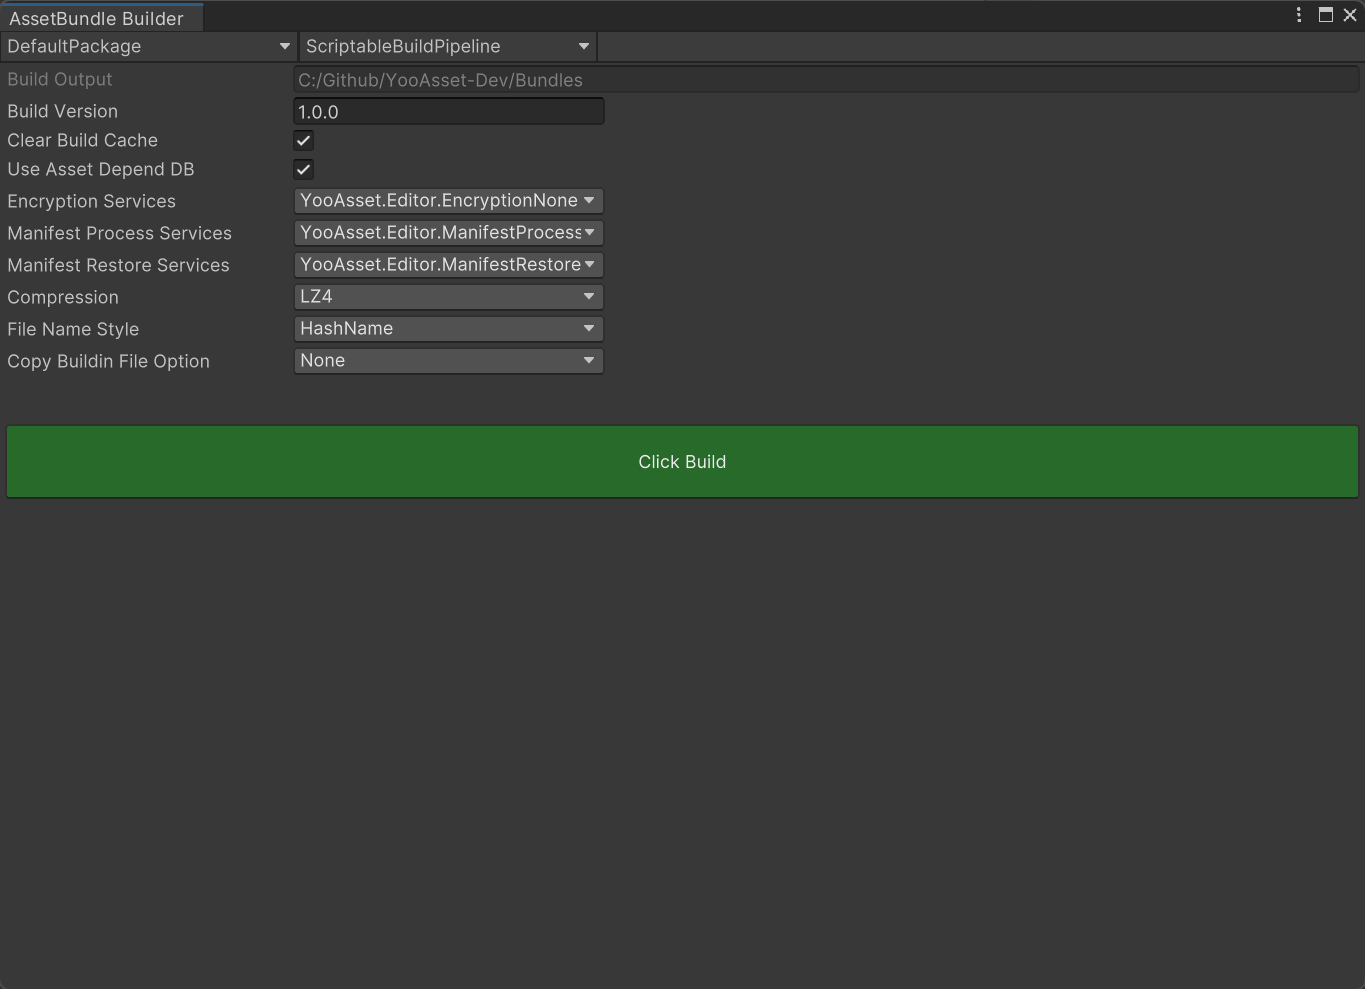
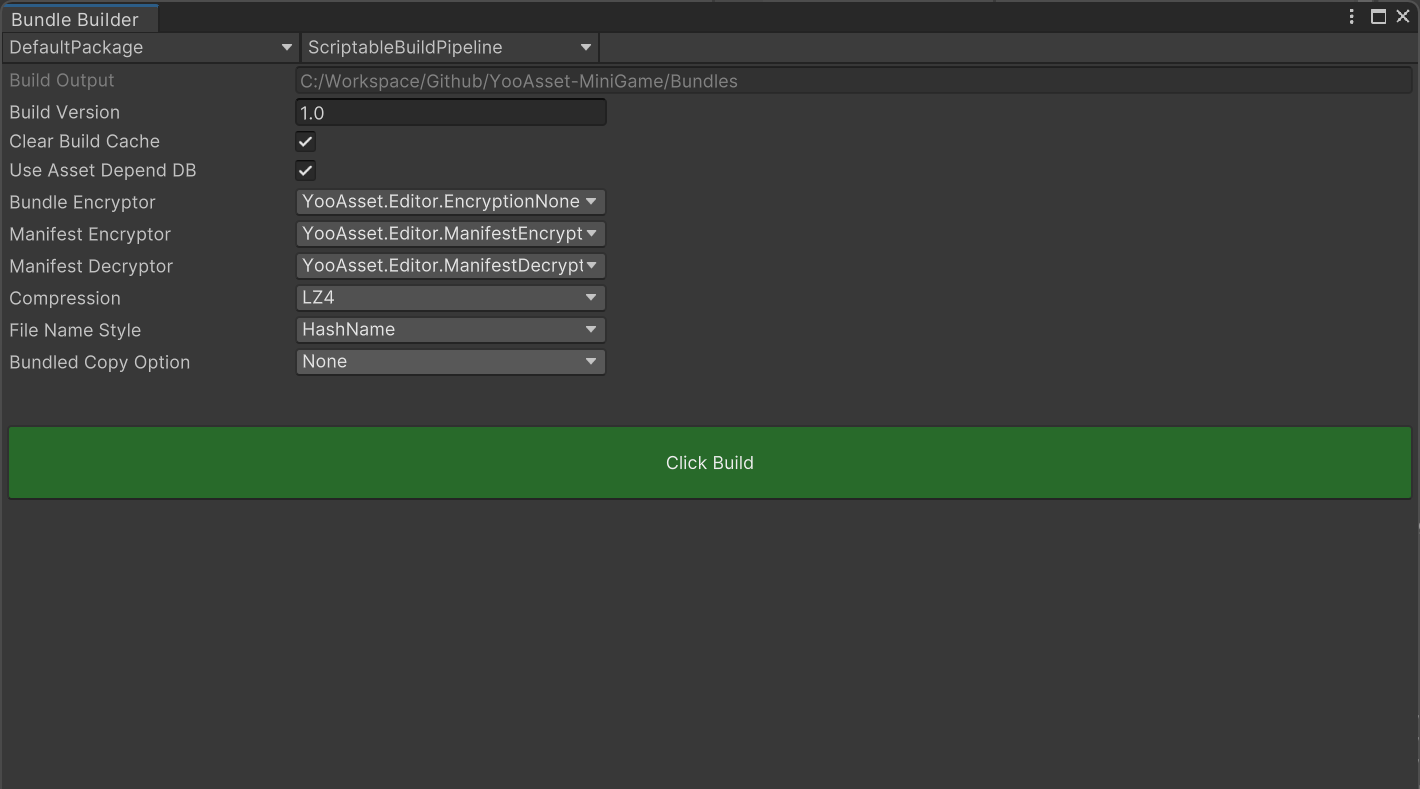
update docs

diff --git a/yoo-website/versioned_docs/version-3.0.x/002-guide-runtime/001-ResourceInit.md b/yoo-website/versioned_docs/version-3.0.x/002-guide-runtime/001-ResourceInit.md
@@ -54,9 +54,16 @@ private IEnumerator DestroyPackage()
 
 注意：该模式只在编辑器下起效
 
+`EditorSimulateBuildInvoker.Build()` 的第二个参数用于指定编辑器模拟模式下的资源包类型，必须传入虚拟资源包类型：
+
+- `EBundleType.VirtualAssetBundle`：模拟常规AssetBundle资源包。
+- `EBundleType.VirtualRawBundle`：模拟原生文件资源包。
+- `EBundleType.VirtualArchiveBundle`：模拟归档文件资源包。
+
 ````csharp
 private IEnumerator InitPackage()
 {  
+    var package = YooAssets.GetPackage("DefaultPackage");
     var buildResult = EditorSimulateBuildInvoker.Build("DefaultPackage", (int)EBundleType.VirtualAssetBundle);
     var packageRoot = buildResult.PackageRootDirectory;
     var fileSystemParams = FileSystemParameters.CreateDefaultEditorFileSystemParameters(packageRoot);
@@ -89,6 +96,7 @@ private IEnumerator InitPackage()
 ````csharp
 private IEnumerator InitPackage()
 {
+    var package = YooAssets.GetPackage("DefaultPackage");
     var fileSystemParams = FileSystemParameters.CreateDefaultBuiltinFileSystemParameters();
     
     var createParameters = new OfflinePlayModeOptions();
@@ -119,14 +127,15 @@ private IEnumerator InitPackage()
 ````csharp
 private IEnumerator InitPackage()
 {
+    var package = YooAssets.GetPackage("DefaultPackage");
     string defaultHostServer = "http://127.0.0.1/CDN/Android/v1.0";
     string fallbackHostServer = "http://127.0.0.1/CDN/Android/v1.0";
     IRemoteService remoteServices = new RemoteServices(defaultHostServer, fallbackHostServer);
     var cacheFileSystemParams = FileSystemParameters.CreateDefaultSandboxFileSystemParameters(remoteServices);
-    var buildinFileSystemParams = FileSystemParameters.CreateDefaultBuiltinFileSystemParameters();
+    var builtinFileSystemParams = FileSystemParameters.CreateDefaultBuiltinFileSystemParameters();
     
     var createParameters = new HostPlayModeOptions();
-    createParameters.BuiltinFileSystemParameters = buildinFileSystemParams;
+    createParameters.BuiltinFileSystemParameters = builtinFileSystemParams;
     createParameters.CacheFileSystemParameters = cacheFileSystemParams;
     
     var initOperation = package.InitializePackageAsync(createParameters);
@@ -181,6 +190,10 @@ private class RemoteServices : IRemoteService
 ```csharp
 private IEnumerator InitPackage()
 {
+    var package = YooAssets.GetPackage("DefaultPackage");
+    string defaultHostServer = "http://127.0.0.1/CDN/Android/v1.0";
+    string fallbackHostServer = "http://127.0.0.1/CDN/Android/v1.0";
+
     //说明：RemoteServices类定义请参考联机运行模式！
     IRemoteService remoteServices = new RemoteServices(defaultHostServer, fallbackHostServer);
     var webServerFileSystemParams = FileSystemParameters.CreateDefaultWebServerFileSystemParameters();
@@ -223,13 +236,13 @@ private IEnumerator RequestPackageVersion()
 
     if (operation.Status == EOperationStatus.Succeeded)
     {
-        //更新成功
+        //请求成功
         string packageVersion = operation.PackageVersion;
         Debug.Log($"Request package Version : {packageVersion}");
     }
     else
     {
-        //更新失败
+        //请求失败
         Debug.LogError(operation.Error);
     }
 }
@@ -240,7 +253,7 @@ private IEnumerator RequestPackageVersion()
 在获取到资源版本号之后，就可以更新资源清单了。
 
 ````csharp
-private IEnumerator UpdatePackageManifest()
+private IEnumerator UpdatePackageManifest(string packageVersion)
 {
     var package = YooAssets.GetPackage("DefaultPackage");
     var operation = package.LoadPackageManifestAsync(new LoadPackageManifestOptions(packageVersion, 60));
@@ -267,6 +280,7 @@ private IEnumerator UpdatePackageManifest()
 ```csharp
 private IEnumerator InitPackage()
 {
+    var package = YooAssets.GetPackage("DefaultPackage");
     // 配置各个文件系统参数
     ......
     
@@ -290,14 +304,17 @@ private IEnumerator InitPackage()
 实现一个继承IBundleDecryptor相关接口的类，参考代码：[示例代码](https://github.com/tuyoogame/YooAsset/blob/yoo3/Assets/YooAsset/Samples~/Test%20Sample/Runtime/CryptoHelpers/TestFileEncryption.cs)
 
 ```csharp
-// 初始化资源包
-var decryptor = new TestFileStreamDecryption();
-var createParameters = new OfflinePlayModeOptions();
-createParameters.BuiltinFileSystemParameters = FileSystemParameters.CreateDefaultBuiltinFileSystemParameters();
-createParameters.BuiltinFileSystemParameters.AddParameter(EFileSystemParameter.AssetbundleDecryptor, decryptor);
+private IEnumerator InitPackage()
+{
+    var package = YooAssets.GetPackage("DefaultPackage");
+    var decryptor = new TestFileStreamDecryption();
+    var createParameters = new OfflinePlayModeOptions();
+    createParameters.BuiltinFileSystemParameters = FileSystemParameters.CreateDefaultBuiltinFileSystemParameters();
+    createParameters.BuiltinFileSystemParameters.AddParameter(EFileSystemParameter.AssetbundleDecryptor, decryptor);
 
-var initializeOp = package.InitializePackageAsync(createParameters);
-yield return initializeOp;
+    var initializeOp = package.InitializePackageAsync(createParameters);
+    yield return initializeOp;
+}
 ```
 
 ### 资源清单解密方法
@@ -305,14 +322,17 @@ yield return initializeOp;
 实现一个继承IManifestDecryptor接口的类，参考代码：[示例代码](https://github.com/tuyoogame/YooAsset/blob/yoo3/Assets/YooAsset/Samples~/Test%20Sample/Runtime/CryptoHelpers/TestManifestServices.cs)
 
 ```csharp
-// 初始化资源包
-var createParameters = new OfflinePlayModeOptions();
-var decryption = new TestManifestDecryptor();
-createParameters.BuiltinFileSystemParameters = FileSystemParameters.CreateDefaultBuiltinFileSystemParameters();
-createParameters.BuiltinFileSystemParameters.AddParameter(EFileSystemParameter.ManifestDecryptor, decryption);
+private IEnumerator InitPackage()
+{
+    var package = YooAssets.GetPackage("DefaultPackage");
+    var createParameters = new OfflinePlayModeOptions();
+    var decryption = new TestManifestDecryptor();
+    createParameters.BuiltinFileSystemParameters = FileSystemParameters.CreateDefaultBuiltinFileSystemParameters();
+    createParameters.BuiltinFileSystemParameters.AddParameter(EFileSystemParameter.ManifestDecryptor, decryption);
 
-var initializeOp = package.InitializePackageAsync(createParameters);
-yield return initializeOp;
+    var initializeOp = package.InitializePackageAsync(createParameters);
+    yield return initializeOp;
+}
 ```
 
 ### 注意事项
@@ -324,7 +344,7 @@ yield return initializeOp;
 3. 要想解决上面的问题，需要开发者扩展默认的内置文件系统类。
 
 ```csharp
-string packageRoot = Application.persistentDataPath + "/buildin"; //沙盒目录
+string packageRoot = Application.persistentDataPath + "/builtin"; //沙盒目录
 FileSystemParameters.CreateDefaultBuiltinFileSystemParameters(packageRoot);
 ```
 
@@ -335,7 +355,7 @@ FileSystemParameters.CreateDefaultBuiltinFileSystemParameters(packageRoot);
 
 ### 源代码解析
 
-Package.InitializePackageAsync()方法解析。
+ResourcePackage.InitializePackageAsync()方法解析。
 
 - 编辑器模拟模式
 

diff --git a/yoo-website/versioned_docs/version-3.0.x/002-guide-runtime/005-ResourceLoad.md b/yoo-website/versioned_docs/version-3.0.x/002-guide-runtime/005-ResourceLoad.md
@@ -144,7 +144,7 @@ IEnumerator Start()
     bool allowSceneActivation = true;
     SceneHandle handle = package.LoadSceneAsync(location, sceneMode, physicsMode, allowSceneActivation);
     yield return handle;
-    Debug.Log($"Scene name is {handle.Scene.name}");
+    Debug.Log($"Scene name is {handle.SceneName}");
 }
 ````
 
@@ -158,8 +158,8 @@ IEnumerator Start()
     string location = "Assets/GameRes/UIAtlas/login.spriteatlas";
     AssetHandle handle = package.LoadAssetAsync(location);
     yield return handle;
-    var spriteAtals = handle.AssetObject as SpriteAtlas;
-    var spriteObject = spriteAtals.GetSprite("spriteName");
+    var spriteAtlas = handle.AssetObject as SpriteAtlas;
+    var spriteObject = spriteAtlas.GetSprite("spriteName");
 }
 ```
 
@@ -172,12 +172,34 @@ IEnumerator Start()
 ````csharp
 IEnumerator Start()
 {
-    // 如需获取本地文件路径，使用 EnsureBundleFileAsync
+    // 注意：该Package必须是原生文件构建管线构建的资源包裹。
+    string location = "Assets/GameRes/wwise/init.bnk";
+    AssetHandle handle = package.LoadAssetAsync<RawFileObject>(location);
+    yield return handle;
+
+    RawFileObject rawFileObject = handle.GetAssetObject<RawFileObject>();
+    byte[] fileData = rawFileObject.GetBytes();
+    string fileText = rawFileObject.GetText();
+
+    handle.Release();
+}
+````
+
+### 获取资源包文件地址范例
+
+`EnsureBundleFileAsync` 用于确保资源包文件已经在本地文件系统中就绪，并返回该资源包文件的本地磁盘路径。
+
+该方法适用于必须把真实文件路径传递给第三方系统的场景，例如音频中间件加载外部音频文件、第三方解压库读取文件等。它不是用来读取文件内容的通用方法；如果只是读取原生文件的字节或文本内容，推荐使用 `RawFileObject`。
+
+````csharp
+IEnumerator Start()
+{
+    string location = "Assets/GameRes/wwise/init.bnk";
     var ensureOp = package.EnsureBundleFileAsync(new EnsureBundleFileOptions(location));
     yield return ensureOp;
+
     string filePath = ensureOp.Detail.BundleFilePath;
-    byte[] fileData = System.IO.File.ReadAllBytes(filePath);
-    string fileText = System.IO.File.ReadAllText(filePath);
+    AudioEngine.LoadBank(filePath);
 }
 ````
 
@@ -202,6 +224,8 @@ IEnumerator Start()
 ### 热更脚本加载范例
 
 如果使用的是Lua或者ILRuntime，HybridCLR热更方式，可以将Lua或者Hotfix.dll的文件格式修改为.bytes
+
+注意：这里的.bytes文件需要作为普通资源被收集器收集，并通过常规AssetBundle构建管线构建到资源包内。加载时使用 `LoadAssetAsync<TextAsset>()`，而不是原生文件加载方式。
 
 ```csharp
 IEnumerator Start()
@@ -245,7 +269,9 @@ void GetAllAssetInfos()
 ### 检测资源是否需要更新下载
 
 ````csharp
+void CheckDownloadSize()
 {
+    string location = "Assets/GameRes/Panel/login.prefab";
     bool isNeedDownload = package.GetDownloadSize(location) > 0;
 }
 ````

diff --git a/yoo-website/versioned_docs/version-3.0.x/002-guide-runtime/006-ResourceUnload.md b/yoo-website/versioned_docs/version-3.0.x/002-guide-runtime/006-ResourceUnload.md
@@ -4,7 +4,7 @@
 
 ### 资源句柄释放
 
-每个资源对象加载方法都会返回一个资源句柄，开发者需要在该资源不再使用的时候释放该句柄，否则会造成资源泄露（一直存在内中当中）
+每个资源对象加载方法都会返回一个资源句柄，开发者需要在该资源不再使用的时候释放该句柄，否则会造成资源泄露（一直存在于内存当中）
 
 ````csharp
 IEnumerator Start()
@@ -31,12 +31,12 @@ private IEnumerator UnloadUnusedAssets()
 {
     var package = YooAssets.GetPackage("DefaultPackage");
     var operation = package.UnloadUnusedAssetsAsync();
-    operation.WaitForAsyncComplete(); //支持同步操作
+    operation.WaitForCompletion(); //支持同步操作
     yield return operation;
 }
 
 // 强制卸载所有资源包，该方法请在合适的时机调用。
-// 注意：Package在销毁的时候也会自动调用该方法。
+// 注意：ResourcePackage在销毁的时候也会自动调用该方法。
 // 备注：不支持同步操作。
 private IEnumerator ForceUnloadAllAssets()
 {

diff --git a/yoo-website/versioned_docs/version-3.0.x/001-guide-editor/004-AssetBundleBuilder.md b/yoo-website/versioned_docs/version-3.0.x/001-guide-editor/004-AssetBundleBuilder.md
@@ -56,17 +56,17 @@
 
   <u>当开启此项的时候，会极大提高构建速度！</u>
 
-- **Encryption Services**
+- **Bundle Encryptor**
 
-  资源包加密类列表。
+  资源包加密器列表。
 
 - **Manifest Encryptor**
 
-  资源清单加密或压缩类列表。
+  资源清单加密器列表。
 
 - **Manifest Decryptor**
 
-  资源清单解密或解压类列表。
+  资源清单解密器列表。
 
 - **Compression**
 
@@ -179,7 +179,7 @@ private static void BuildInternal(BuildTarget buildTarget)
     var streamingAssetsRoot = BundleBuilderHelper.GetStreamingAssetsRoot();
     
     // 构建参数
-    LegacyBuildParameters buildParameters = new LegacyBuildParameters();
+    var buildParameters = new LegacyBuildParameters();
     buildParameters.BuildOutputRoot = buildoutputRoot;
     buildParameters.BundledFileRoot = streamingAssetsRoot;
     buildParameters.BuildPipeline = EBuildPipeline.LegacyBuildPipeline.ToString();

diff --git a/yoo-website/versioned_docs/version-3.0.x/001-guide-editor/003-AssetBundleCollector.md b/yoo-website/versioned_docs/version-3.0.x/001-guide-editor/003-AssetBundleCollector.md
@@ -60,11 +60,11 @@
 
   - RawFileIgnoreRule 适配原生文件构建管线。
 
-  **原生文件配置选择RawFileIgnoreRule**
+  **注意：**原生构建管线配置选择RawFileIgnoreRule
 
 ### 资源分组
 
-- Active Rule
+- Group Active Rule
 
   激活规则，规则可以自定义扩展。下面是内置规则：
 
@@ -83,11 +83,11 @@
   }
   ````
 
-- Grouper Name
+- Group Name
 
   分组名称
 
-- Grouper Desc
+- Group Desc
 
   分组备注信息
 
@@ -137,7 +137,7 @@
   }
   ````
   
-- **PackRule**
+- **BundlePackRule**
 
   打包规则，规则可以自定义扩展。下面是内置规则：
 

diff --git a/yoo-website/versioned_docs/version-3.0.x/003-guide-samples/001-Samples.md b/yoo-website/versioned_docs/version-3.0.x/003-guide-samples/001-Samples.md
@@ -18,7 +18,7 @@
 
 #### 导入流程注意事项
 
-1. Space Shooter在导入完成后，打开YooAsset->AssetBundle Collector窗口。
-2. 点击修复按钮，然后点击Save按钮保存配置，最后关闭窗口。
+1. **太空战机DEMO** 在导入完成后，打开YooAsset->AssetBundle Collector窗口。
+2. 点击Fix修复按钮，然后点击Save按钮保存配置，最后关闭窗口。
 3. 找到Boot.scene场景启动游戏。
 

diff --git a/yoo-website/versioned_docs/version-3.0.x/001-guide-editor/002-GlobalSettings.md b/yoo-website/versioned_docs/version-3.0.x/001-guide-editor/002-GlobalSettings.md
@@ -10,5 +10,6 @@
 
 配置说明：
 
-- Default Yoo Folder Name : 沙盒目录和内置目录的根目录名称
+- Yoo Folder Name : 沙盒目录和内置目录的根目录名称
+- Package File Prefix : 资源包裹的文件名称统一前缀
 

diff --git a/yoo-website/versioned_docs/version-3.0.x/001-guide-editor/009-ShaderVariantCollector.md b/yoo-website/versioned_docs/version-3.0.x/001-guide-editor/009-ShaderVariantCollector.md
@@ -14,7 +14,7 @@
 
 菜单栏Tools ---> 变种着色器收集器
 
-![image](./Image/ShaderVariantCollector-img1.jpg)
+![image](./Image/ShaderVariantCollector-img1.png)
 
 点击搜集变种按钮开始收集，请耐心等待结束。
 

diff --git a/yoo-website/versioned_docs/version-3.0.x/002-guide-runtime/003-ResourceUpdate.md b/yoo-website/versioned_docs/version-3.0.x/002-guide-runtime/003-ResourceUpdate.md
@@ -75,7 +75,7 @@ downloader1.StartDownload();
 
 ### 源代码解析
 
-Package.RequestPackageVersionAsync()方法解析。
+ResourcePackage.RequestPackageVersionAsync()方法解析。
 
 - 单机运行模式
 

diff --git a/yoo-website/versioned_docs/version-3.0.x/001-guide-editor/001-QuickStart.md b/yoo-website/versioned_docs/version-3.0.x/001-guide-editor/001-QuickStart.md
@@ -28,7 +28,7 @@
    ````json
    {
      "dependencies": {
-       "com.tuyoogame.yooasset": "2.x.x",
+       "com.tuyoogame.yooasset": "3.x.x",
        ......
      },
      "scopedRegistries": [

diff --git a/yoo-website/versioned_docs/version-3.0.x/002-guide-runtime/004-ResourceClear.md b/yoo-website/versioned_docs/version-3.0.x/002-guide-runtime/004-ResourceClear.md
@@ -1,6 +1,6 @@
-# 资源移除
+# 资源清理
 
-学习如何进行资源文件的移除。
+学习如何进行资源文件的缓存清理。
 
 ### 清理文件系统所有的缓存资源文件
 
